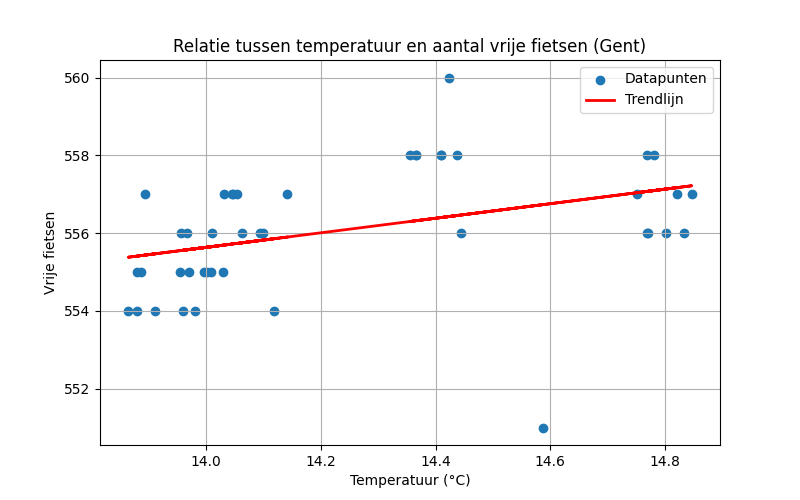
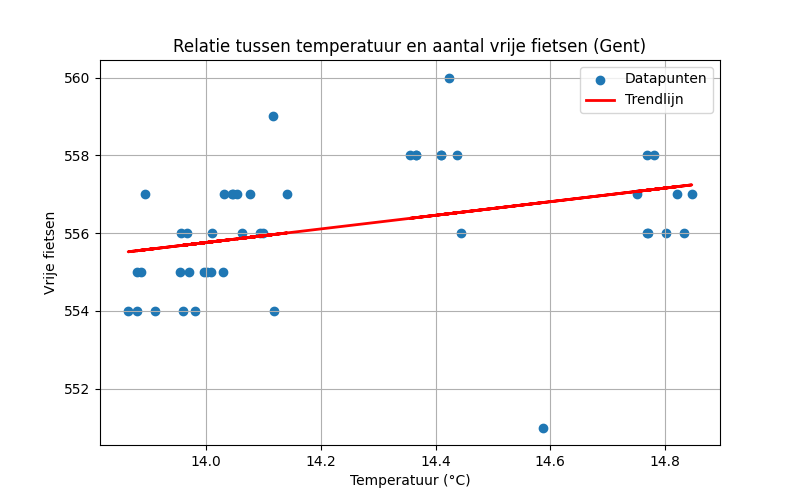
Automatische update 2025-11-15 10:55:06

Changed region(s): [[0.1562, 0.36, 0.875, 0.54], [0.3125, 0.21, 0.3438, 0.24]]

diff --git a/reports/report.md b/reports/report.md
@@ -1,16 +1,16 @@
 # Data Workflow Rapport
 
-**Gegenereerd op:** 2025-11-15 10:53:06.153890
+**Gegenereerd op:** 2025-11-15 10:55:06.097953
 
 ## Grafiek: Vrije fietsen vs Temperatuur
 ![Fietsen vs Temp](/home/larsg/projects/data-workflow/reports/fiets_vs_temp.png)
 
 ## Basisstatistieken
-- Gemiddelde temperatuur: 14.25 °C
+- Gemiddelde temperatuur: 14.24 °C
 - Gemiddeld aantal vrije fietsen: 556
-- Gemiddeld aantal fietsen overdag (07-19u): 555
+- Gemiddeld aantal fietsen overdag (07-19u): 556
 - Gemiddeld aantal fietsen ’s nachts (19-07u): 557
-- Correlatie: 0.37
+- Correlatie: 0.34
 
 ## Vrije fietsen per weekdag
 
